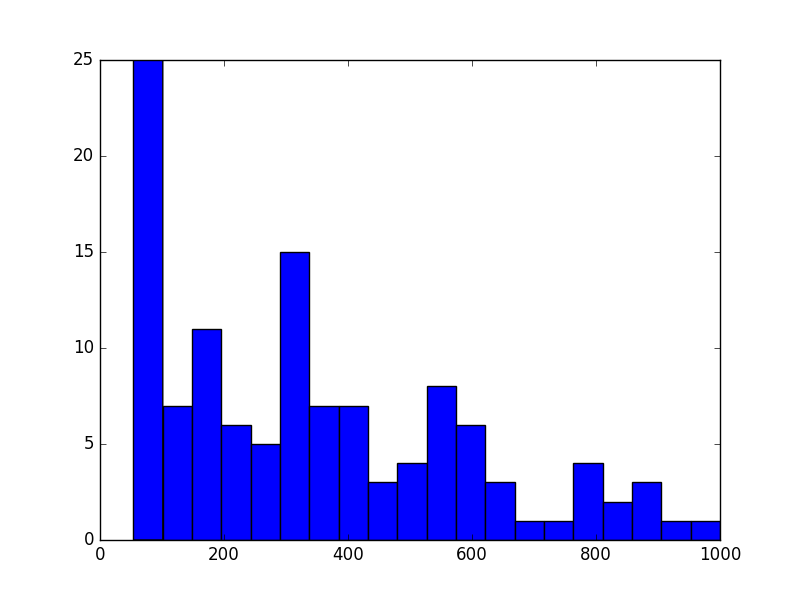
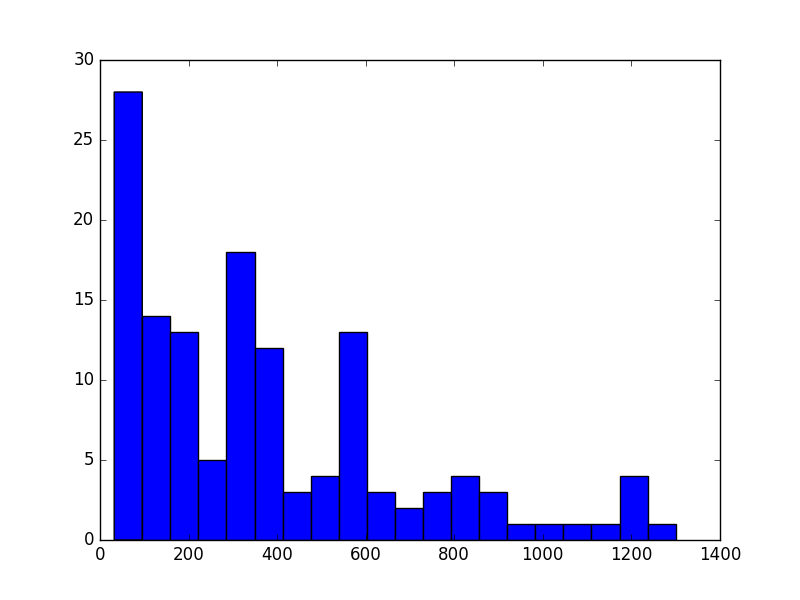
Fix typo

Changed region(s): [[0.0938, 0.09, 0.9062, 0.93], [0.0938, 0.09, 0.125, 0.12]]

diff --git a/notes/exam_review.html b/notes/exam_review.html
@@ -363,7 +363,7 @@ numlist <span class="op">=</span> [<span class="dv">1</span>,<span class="dv">2<
 <p>Stores unordered key-value pair data.</p>
 <div class="sourceCode"><pre class="sourceCode python"><code class="sourceCode python"><span class="bu">dict</span> <span class="op">=</span> {<span class="st">&quot;a&quot;</span>:<span class="dv">1</span>, <span class="st">&quot;b&quot;</span>:<span class="dv">2</span>, <span class="st">&quot;c&quot;</span>:<span class="dv">3</span>}
 <span class="bu">print</span>(<span class="bu">dict</span>)</code></pre></div>
-<pre><code>## {'c': 3, 'a': 1, 'b': 2}</code></pre>
+<pre><code>## {'a': 1, 'b': 2, 'c': 3}</code></pre>
 <p>You can extract iterables over the keys or values. Recall that they are <strong>unordered</strong>.</p>
 <div class="sourceCode"><pre class="sourceCode python"><code class="sourceCode python"><span class="bu">dict</span> <span class="op">=</span> {<span class="st">&quot;a&quot;</span>:<span class="dv">1</span>, <span class="st">&quot;b&quot;</span>:<span class="dv">2</span>, <span class="st">&quot;c&quot;</span>:<span class="dv">3</span>}
 <span class="bu">print</span>(<span class="bu">dict</span>.keys())
@@ -383,10 +383,10 @@ x <span class="op">=</span> <span class="bu">dict</span>[<span class="st">&quot;
 <span class="kw">del</span> <span class="bu">dict</span>[<span class="st">&quot;a&quot;</span>]   <span class="co">## deletion</span>
 <span class="bu">dict</span>[<span class="st">&quot;b&quot;</span>] <span class="op">=</span> <span class="dv">17</span>  <span class="co">## modification</span>
 <span class="bu">print</span>(<span class="bu">dict</span>)</code></pre></div>
-<pre><code>## {'b': 2, 'c': 3, 'a': 1}
+<pre><code>## {'c': 3, 'a': 1, 'b': 2}
 ## 2
-## {'b': 2, 'c': 3, 'd': 42, 'a': 1}
-## {'b': 17, 'c': 3, 'd': 42}</code></pre>
+## {'c': 3, 'd': 42, 'a': 1, 'b': 2}
+## {'c': 3, 'd': 42, 'b': 17}</code></pre>
 <hr />
 </div>
 <div id="numpy" class="section level2">
@@ -442,9 +442,9 @@ b <span class="op">=</span> np.linalg.inv(a)                    <span class="co"
 c <span class="op">=</span> np.dot(a,b)                         <span class="co">## matrix multiplication</span>
 
 <span class="bu">print</span>(c)</code></pre></div>
-<pre><code>## [[  1.00000000e+00   2.22261445e-17   0.00000000e+00]
-##  [  0.00000000e+00   1.00000000e+00   0.00000000e+00]
-##  [  8.88178420e-16  -4.07660017e-17   1.00000000e+00]]</code></pre>
+<pre><code>## [[  1.00000000e+00   2.22044605e-16   6.93889390e-18]
+##  [  2.22044605e-16   1.00000000e+00   1.73472348e-18]
+##  [ -4.44089210e-16   2.22044605e-16   1.00000000e+00]]</code></pre>
 <hr />
 </div>
 <div id="plotting" class="section level2">
@@ -570,11 +570,11 @@ pokedata_named <span class="op">=</span> pokedata_orig.set_index(<span class="st
 <span class="bu">print</span>( <span class="st">&quot;min weight&quot;</span>, <span class="bu">min</span>(pokedata_named.weight) )       <span class="co">## get lightest pokemon</span>
 <span class="bu">print</span>( <span class="st">&quot;max weight&quot;</span>, <span class="bu">max</span>(pokedata_named.weight) )       <span class="co">## get heaviest pokemon</span>
 
-lightlim <span class="op">=</span> pokedata_named.quantile(<span class="fl">0.1</span>)                             <span class="co">## get lightest 5% limit</span>
+lightlim <span class="op">=</span> pokedata_named.quantile(<span class="fl">0.05</span>)                                <span class="co">## get lightest 5% limit</span>
 pokelight <span class="op">=</span> pokedata_named[pokedata_named.weight <span class="op">&lt;</span> lightlim[<span class="st">'weight'</span>]]  <span class="co">## get data within limit</span>
 <span class="bu">print</span>(pokelight)
 
-heavylim <span class="op">=</span> pokedata_named.quantile(<span class="fl">0.9</span>)                             <span class="co">## get heaviest 5% limit</span>
+heavylim <span class="op">=</span> pokedata_named.quantile(<span class="fl">0.95</span>)                                <span class="co">## get heaviest 5% limit</span>
 pokeheavy <span class="op">=</span> pokedata_named[ pokedata_named.weight <span class="op">&gt;</span> heavylim[<span class="st">'weight'</span>]] <span class="co">## get data within limit</span>
 <span class="bu">print</span>(pokeheavy)
 
@@ -591,39 +591,27 @@ plt.savefig(<span class="st">&quot;exrevpix/pokeweight2.png&quot;</span>)</code>
 ##              id  species_id  height  weight  base_experience
 ## identifier                                                  
 ## caterpie     10          10       3      29               39
-## weedle       13          13       3      32               39
 ## pidgey       16          16       3      18               50
-## rattata      19          19       3      35               51
 ## spearow      21          21       3      20               52
 ## diglett      50          50       2       8               53
-## meowth       52          52       4      42               58
-## bellsprout   69          69       7      40               60
-## shellder     90          90       3      40               61
 ## gastly       92          92      13       1               62
 ## haunter      93          93      16       1              142
 ## exeggcute   102         102       4      25               65
 ## koffing     109         109       6      10               68
-## ditto       132         132       3      40              101
-## dratini     147         147      18      33               60
 ##              id  species_id  height  weight  base_experience
 ## identifier                                                  
 ## arcanine     59          59      19    1550              194
-## machamp      68          68      16    1300              227
-## graveler     75          75      10    1050              137
 ## golem        76          76      14    3000              223
-## dewgong      87          87      17    1200              166
 ## cloyster     91          91      15    1325              184
 ## onix         95          95      88    2100               77
-## exeggutor   103         103      20    1200              182
-## rhyhorn     111         111      10    1150               69
-## rhydon      112         112      19    1200              170
 ## gyarados    130         130      65    2350              189
 ## lapras      131         131      25    2200              187
 ## snorlax     143         143      21    4600              189
-## dragonite   149         149      22    2100              270
-## mewtwo      150         150      20    1220              306</code></pre>
+## dragonite   149         149      22    2100              270</code></pre>
+<p>Full weight data</p>
[2 lines of base64/hex data omitted]
+<p>Middle 90% weight data</p>
[1 lines of base64/hex data omitted]
 </div>
 </div>
 
